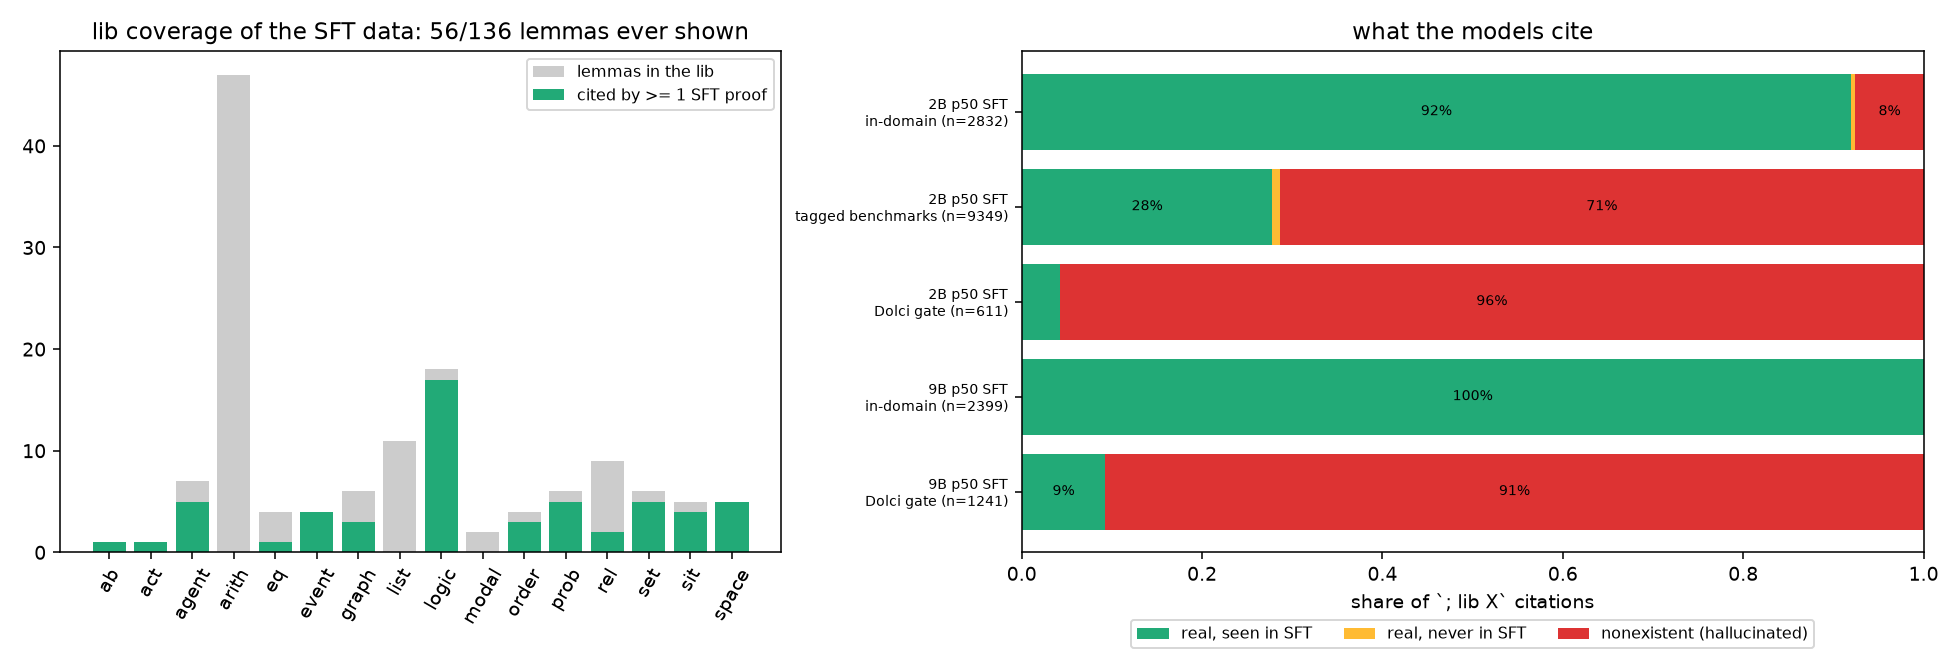
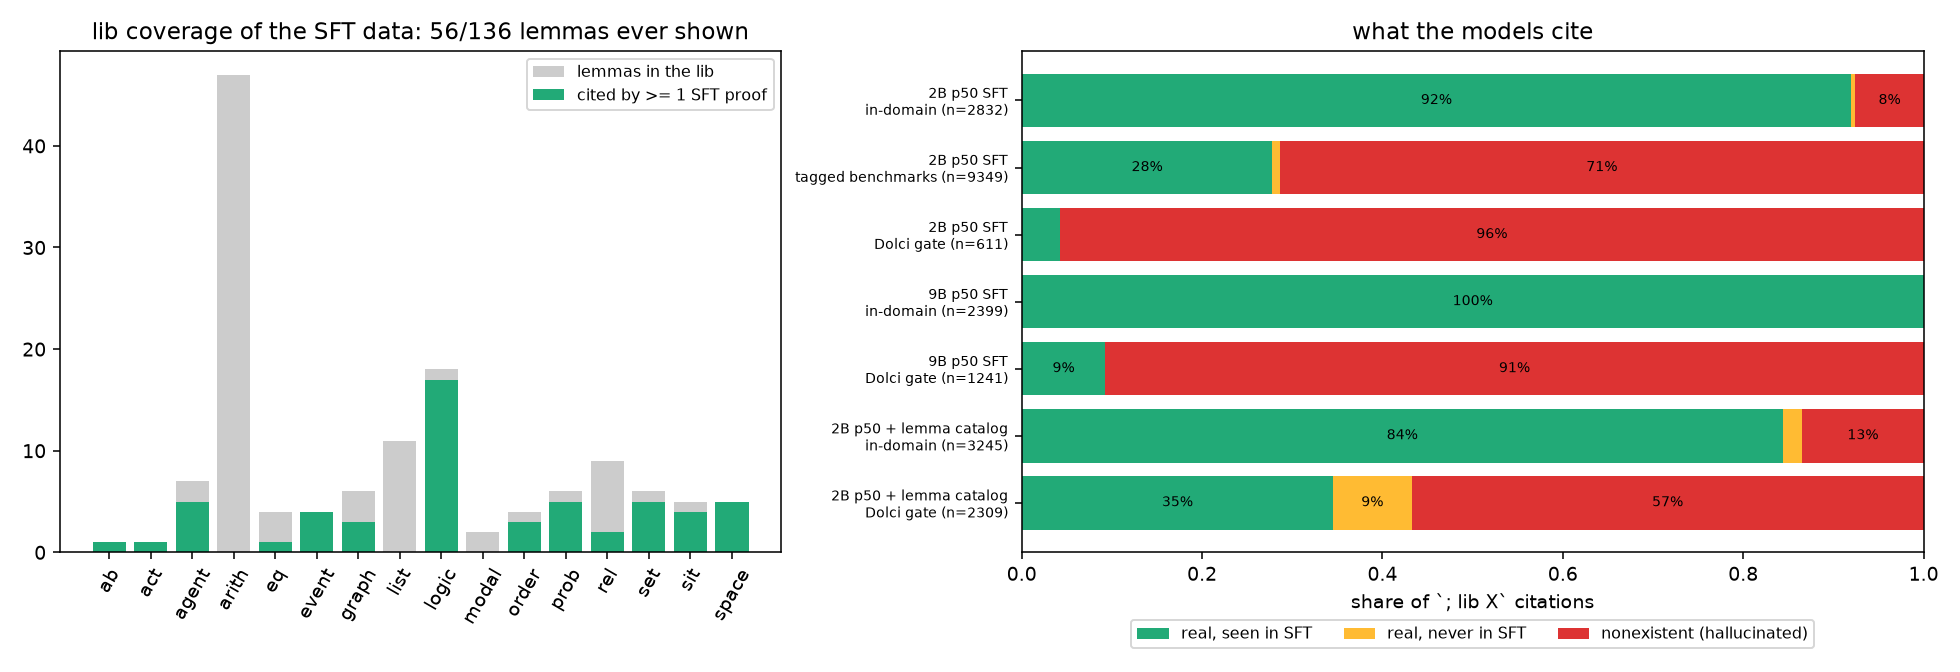
lc (lemma catalog) continued SFT: gate + lib-coverage readout
Claude-Session: https://claude.ai/code/session_01WnQYXLXLcnkw9LdZ4eJP3w

Changed region(s): [[0.4046, 0.125, 0.9959, 0.8125]]

diff --git a/scripts/analysis/grpo_gate_ckpts.py b/scripts/analysis/grpo_gate_ckpts.py
@@ -47,7 +47,8 @@ MODELS = [
     ("G6g frac_hard + gen @50", GRPO / "2b_p50_G6g_frachard_gen/checkpoint-50"),
     ("G6g frac_hard + gen @100", GRPO / "2b_p50_G6g_frachard_gen/checkpoint-100"),
     ("G6g frac_hard + gen @150", GRPO / "2b_p50_G6g_frachard_gen/checkpoint-150"),
-    ("G6g frac_hard + gen final", GRPO / "2b_p50_G6g_frachard_gen/final"),    ("G6h frac_hard hardened @50", GRPO / "2b_p50_G6h_frachard_hardened/checkpoint-50"),
+    ("G6g frac_hard + gen final", GRPO / "2b_p50_G6g_frachard_gen/final"),
+    ("G6h frac_hard hardened @50", GRPO / "2b_p50_G6h_frachard_hardened/checkpoint-50"),
     ("G6h frac_hard hardened @100", GRPO / "2b_p50_G6h_frachard_hardened/checkpoint-100"),
     ("G6h frac_hard hardened @150", GRPO / "2b_p50_G6h_frachard_hardened/checkpoint-150"),
     ("G6i frac_hard restate @50", GRPO / "2b_p50_G6i_frachard_restate/checkpoint-50"),
@@ -63,6 +64,11 @@ MODELS = [
     ("G6i frac_hard restate final", GRPO / "2b_p50_G6i_frachard_restate/final"),
     ("G7 cvf final", GRPO / "2b_p50_G7_cvf/final"),
     ("G7g cvf gen-only final", GRPO / "2b_p50_G7g_cvf_genonly/final"),
+    ("SFT p50 + lemma catalog", SFT / "qwen35_2b_p50_cont_lc_lr5em6_seed3407/final"),
+    ("SFT p50 + control", SFT / "qwen35_2b_p50_cont_ct_lr5em6_seed3407/final"),
+    ("SFT p50 x3 @781", SFT / "qwen35_2b_dolci_rlvlgen_p50_x3_lr5em6_seed3407/checkpoint-781"),
+    ("SFT p50 x3 @1562", SFT / "qwen35_2b_dolci_rlvlgen_p50_x3_lr5em6_seed3407/checkpoint-1562"),
+    ("SFT p50 x3 final", SFT / "qwen35_2b_dolci_rlvlgen_p50_x3_lr5em6_seed3407/final"),
 ]
 KEYS = ["has_proof", "grammatical", "format_ok", "valid_eval", "circular", "n_taut", "valid", "in_system", "correct"]
 

diff --git a/docs/project_log.md b/docs/project_log.md
@@ -4184,3 +4184,4 @@ Downstream benchmarks of the "Lead into Gold" paper now run for every checkpoint
 - rlvlgen fix: `families/rules.py` distractor loops guarded against empty `dattrs` (existing items unchanged).
 - 10:31: Gate @50 (7098; hardened valid): G7 cvf .007, G6i .003, SFT p50 .004. The Dolci gate is flat at step 50 for every arm. Training split (`grpo_train_split.py`, now with G7/G7g): valid on generator items stays at .40 under cvf (G7, step 55) and climbs .40 → .54 on gen-only (G7g, step 40). Under frac_hard it falls .46 → .09 (G6i, step 75), repeating G6g. Cancelled G6h (7060, 25 h at 7.6 min/step, same family) and G6i (7078). correct x valid x prem_ok is the first reward that does not destroy validity where the policy can prove.
 - 10:31: Lemma-catalog family `lemmas` in RLVL-next (`gen/rlvlgen/families/lemmas.py`, opt-in via `EXTRA`, default mixture unchanged). It states and uses all 135 non-trivial lib lemmas (rule, iff, alias, and a "solve for x" mode). 3000 items: 0 strict-check failures; generator tests pass. Oracle: no unique-names assumption for this family, and predicate variables may be any example predicate of the right arity. Audit: formula sentences with `~`, `!=` or `diff(` count as negated. Continued-SFT test from 2B p50 (`scripts/data/build_lemma_continue.py`, 20k rows, 156 steps): **lc** = 5k lemmas + 5k fresh gen + 10k unseen Dolci (7100, gruenau9 A100); **ct** = 10k fresh gen + 10k Dolci (7103, gruenau7 2x A6000, zero2). Evals 7104/7105 (gruenau12), Dolci gates 7106/7107 (gruenau8; `grpo_gate_ckpts.slurm` now takes GATE_ROOT). Readout: hallucinated-cite share and valid on the Dolci gate, lc vs ct.
+- 11:40: **lc finished** (7100, 47 min; eval 7104, gate 7106). In-domain (2000 items): valid .675 → .645, faithful .827 → .824, answer acc .874 → .869 vs p50. Dolci gate (hardened, `stage2_gate_ckpts.json`): has_proof .40 → .50, grammatical .082 → .122, valid .004 → .003, correct .222 → .216. Lib cites on the gate: 611 → 2309; nonexistent 96% → 57%; real cites 26 → 998 (201 of them lemmas unseen in p50 SFT). In-domain nonexistent cites rose 8% → 13%. Of the 109 grammatical-but-invalid gate proofs, the first errors are: `unknown lemma` 30, quote not in prompt 32, literal 14, other rule 19, type 9. So the catalog makes the model cite real lemmas, but gate validity is capped by grammar (88% ungrammatical) and grounding. Waiting on ct (7103, ~14:00) to separate "lemmas" from "more SFT".

diff --git a/reports/2026-09-28_stage2_gate.md b/reports/2026-09-28_stage2_gate.md
@@ -624,3 +624,16 @@ Evals 7104/7105 and gates 7106/7107 are chained.
 
 ### Longer instruction tuning
 2B p50 x3 (300k rows, job 7088) is running. Checkpoints at 50k/100k/150k generator rows feed `reports/figures/sft_scale_curve.png`. 10x runs only if 3x (or lc) moves the Dolci gate.
+
+### 11:40 — lemma-catalog continued SFT (lc): first result
+| model | in-domain valid | gate has_proof | gate grammatical | gate valid | gate correct | gate lib cites nonexistent |
+|---|---|---|---|---|---|---|
+| SFT p50 | .675 | .399 | .082 | .004 | .222 | 585/611 (96%) |
+| p50 + lemma catalog (lc) | .645 | .503 | .122 | .003 | .216 | 1311/2309 (57%) |
+
+- The catalog works as a catalog. The model now cites 38× more *real* lemmas on open-domain prompts, including 201 cites of lemmas it never saw in p50 SFT, and the share of invented names falls from 96% to 57%.
+- It does **not** move gate validity. Among grammatical-but-invalid gate proofs, invented lemmas are the first error in only 30/109; quotes not in the prompt (32) and other rule misuse account for most of the rest. Above all, 88% of gate outputs are not grammatical at all.
+- The price in-domain is small: valid −.03, and invented cites rise 8% → 13%. The model now also reaches for "lemma-like" names on generator items.
+- The control arm ct (same size, no lemmas) is still training. It decides whether the grammatical gain (+.04) comes from the catalog or simply from more SFT.
+
+![lib coverage](figures/lib_coverage.png)
